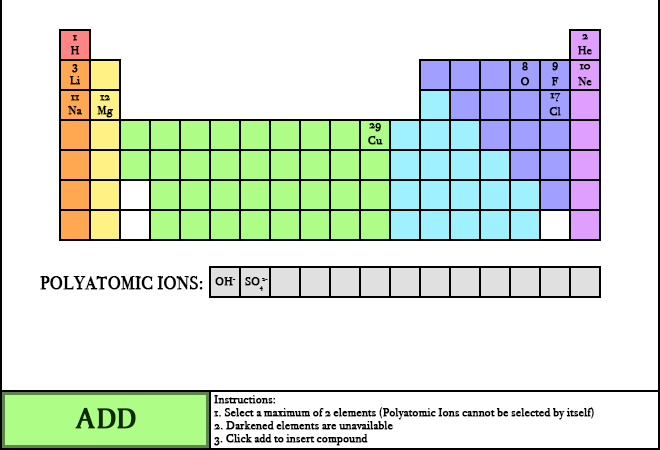
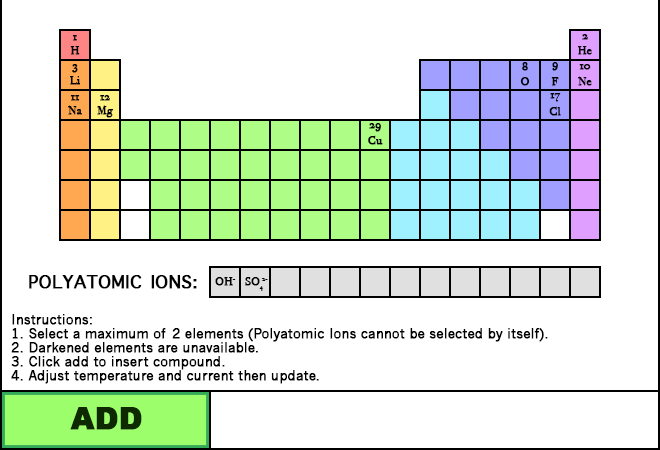
New!:
Grey text added to text boxes
Macroscopic view is default selection

- Michael

Changed region(s): [[0.0, 0.6844, 0.9091, 0.9956], [0.0303, 0.5911, 0.303, 0.6533]]

diff --git a/index.html b/index.html
@@ -178,7 +178,6 @@
             <img src="Resources/Program Bar.jpg">
         </div>
 
-
         <div class="periodicTable">
 
             <img class="table" src="Resources/Periodic Table.jpg">
@@ -201,8 +200,16 @@
             <div class="infoBar">
                 Atomic View:
                 <br>
-                Compound:
-                <br>
+                Compounds: <select id = "selectedCompound" title="CompoundList" onchange="updateCompound()">
+                <option id="option1">None</option>
+                <option id="option2">None</option>
+                <option id="option3">None</option>
+                <option id="option4">None</option>
+                <option id="option5">None</option>
+                <option id="option6">None</option>
+                <option id="option7">None</option>
+            </select>
+                <p id = "chemicalFormula">Formula:</p>
 
                 <button onclick = "nextCompound()">Next Compound</button>
 
@@ -219,6 +226,8 @@
     let ctx = c.getContext("2d");
     let mainC = document.getElementById("main");
     let mainCtx = mainC.getContext("2d");
+
+    var selectedCompound = 0;
 
     var nucleusImage = document.createElement("img");
     nucleusImage.src = "Resources/Nucleus.png";
@@ -1026,7 +1035,7 @@
             {
                 for (let i = 0; i < this.reactants.length; i++)
                 {
-                    currentCompounds.splice(i);
+                        currentCompounds.splice(i);
 
                 }
 
@@ -1049,6 +1058,8 @@
             }
         }
     }
+
+
 
     var possibleCompounds = //TODO: Add waterSoluble
 //        "Resources/Powder.png"
@@ -1089,7 +1100,7 @@
     var possibleReactions =
         [
             [new Reaction(["H2", "O2"], ["H2O"], ">300"), "temperature"],
-            [new Reaction(["H2O"], ["H2", "O2"], ">20"), "current"],
+//            [new Reaction(["H2O"], ["H2", "O2"], ">20"), "current"],
             [new Reaction(["MgO", "H2O"], ["MgOH2"], true), "waterEnvironment"],
             [new Reaction(["Cl2", "H2"], ["HCl"], true), "UV"],
             [new Reaction(["MgOH2"], ["Mg", "H2O"], ">100"), "temperature"],
@@ -1169,6 +1180,95 @@
     });
 
 
+    function tempUpdate()
+    {
+        temperature = document.getElementById("tempTextBox").value;
+        current = document.getElementById("currentTextBox").value;
+
+
+        let macroView = document.getElementById("macroView").checked;
+
+        let microView = document.getElementById("microView").checked;
+
+        if (macroView)
+        {
+            view = "macroView";
+        } else if (microView)
+        {
+            view = "microView";
+//            alert(possibleCompounds[currentCompounds[0]].formula);
+//            alert(selectedCompound);
+
+            switch (possibleCompounds[selectedCompound] instanceof CovalentCompound){
+                case true:
+
+                    no = new compoundElectronConfig(possibleCompounds[selectedCompound].formula);
+                    break;
+                case false:
+                    no = new IonicCompoundConfig(possibleCompounds[selectedCompound].ions[0],possibleCompounds[selectedCompound].ions[1]);
+                    break;
+
+
+            }
+
+        } else
+        {
+            view = "macroView";
+        }
+
+        document.getElementById("tempTextBox").placeholder = temperature.toString();
+        document.getElementById("currentTextBox").placeholder = current;
+
+
+    }
+
+    function updateCompound(){
+//        id.options[id.selectedIndex].value;
+        option1 = document.getElementById("option1");
+        option2 = document.getElementById("option2");
+        option3 = document.getElementById("option3");
+        option4 = document.getElementById("option4");
+        option5 = document.getElementById("option5");
+        option6 = document.getElementById("option6");
+        option7 = document.getElementById("option7");
+
+        try{
+            for (compound = 0; compound < 7; compound++){
+                console.log(currentCompounds[compound]);
+                if (currentCompounds[compound] !== undefined) {
+                    eval("option" + (compound + 1).toString()).innerHTML = currentCompounds[compound];
+                } else {
+                    eval("option" + (compound + 1).toString()).innerHTML = "None";
+
+                }
+            }
+        } catch(err){
+            alert("ERROR");
+        }
+        var selectedCompounds = document.getElementById("selectedCompound");
+        selectedCompound = selectedCompounds.options[selectedCompounds.selectedIndex].value;
+//        alert(selectedCompound);
+        switch (possibleCompounds[selectedCompound] instanceof CovalentCompound){
+            case true:
+
+                no = new compoundElectronConfig(possibleCompounds[selectedCompound].formula);
+                break;
+            case false:
+                no = new IonicCompoundConfig(possibleCompounds[selectedCompound].ions[0],possibleCompounds[selectedCompound].ions[1]);
+                break;
+
+
+        }
+    }
+
+    function negativeUpdate(){
+        var store = document.getElementById("tempTextBox").value;
+        store *= -1;
+        document.getElementById("tempTextBox").value = store;
+
+
+    }
+
     function onClickHandler(e)
     {
         let tableRect = c.getBoundingClientRect();
@@ -1197,6 +1297,7 @@
         }
 
         elementStatus.forEach(function (x)
+
         {
             if (!possibleBondPartner.has(x.symbol) && !x.status)
             {
@@ -1210,6 +1311,8 @@
 
             }
         });
+//        updateCompound();
+
 
 
         let fakeCompound = false;
@@ -1259,57 +1362,11 @@
                 x.enabled = true;
             });
 
+            updateCompound();
+
         }
     }
 
-    function tempUpdate()
-    {
-        temperature = document.getElementById("tempTextBox").value;
-        current = document.getElementById("currentTextBox").value;
-
-        let macroView = document.getElementById("macroView").checked;
-
-        let microView = document.getElementById("microView").checked;
-
-        if (macroView)
-        {
-            view = "macroView";
-        } else if (microView)
-        {
-            view = "microView";
-//            alert(possibleCompounds[currentCompounds[0]].formula);
-
-//            switch (possibleCompounds[currentCompounds[0]] instanceof ){
-//                case CovalentCompound:
-                    no = new compoundElectronConfig(possibleCompounds[currentCompounds[0]].formula);
-//                    alert();
-//                    break;
-//                case IonicCompound:
-//                    no = new IonicCompoundConfig(possibleCompounds[currentCompounds[0]].formula);
-//                    alert("IONIC");
-//                    break;
-
-
-//            }
-
-        } else
-        {
-            view = "macroView";
-        }
-
-        document.getElementById("tempTextBox").placeholder = temperature.toString();
-        document.getElementById("currentTextBox").placeholder = current;
-
-
-    }
-
-    function negativeUpdate(){
-        var store = document.getElementById("tempTextBox").value;
-        store *= -1;
-        document.getElementById("tempTextBox").value = store;
-
-
-    }
 
     //     kek
     //    function simulationManager()
@@ -1343,6 +1400,7 @@
         {
             mainCtx.beginPath();
             mainCtx.clearRect(0, 0, 656, 658);
+
         } else if (view === "microView")
         {
 //            mainCtx.beginPath();
@@ -1353,15 +1411,13 @@
             mainCtx.rect(0, 0, 658, 656);
             mainCtx.fillStyle = ("rgba(0,0,0,0.8)");
             mainCtx.fill();
-            try
-            {
+
+            try{
                 no.drawCompound();
             } catch (err)
             {
 
             }
-
-
         }
 
         for (let i = 0; i < elementStatus.length; i++)
@@ -1398,13 +1454,18 @@
                 {
                     possibleCompounds[currentCompounds[i]].checkImage();
                 }
+
             }
             catch (Exception)
             {
-                alert("");
+//                alert("");
                 console.log(currentCompounds[i]);
             }
         }
+
+
+        waterEnvironment = new Set(currentCompounds).has("H2O");
+
         for (let i = 0; i < currentCompounds.length; i++)
         {
             if (currentCompounds[i].state === "GAS")
@@ -1417,7 +1478,6 @@
             }
 //
         }
-
 
         requestAnimationFrame(draw);
     }
